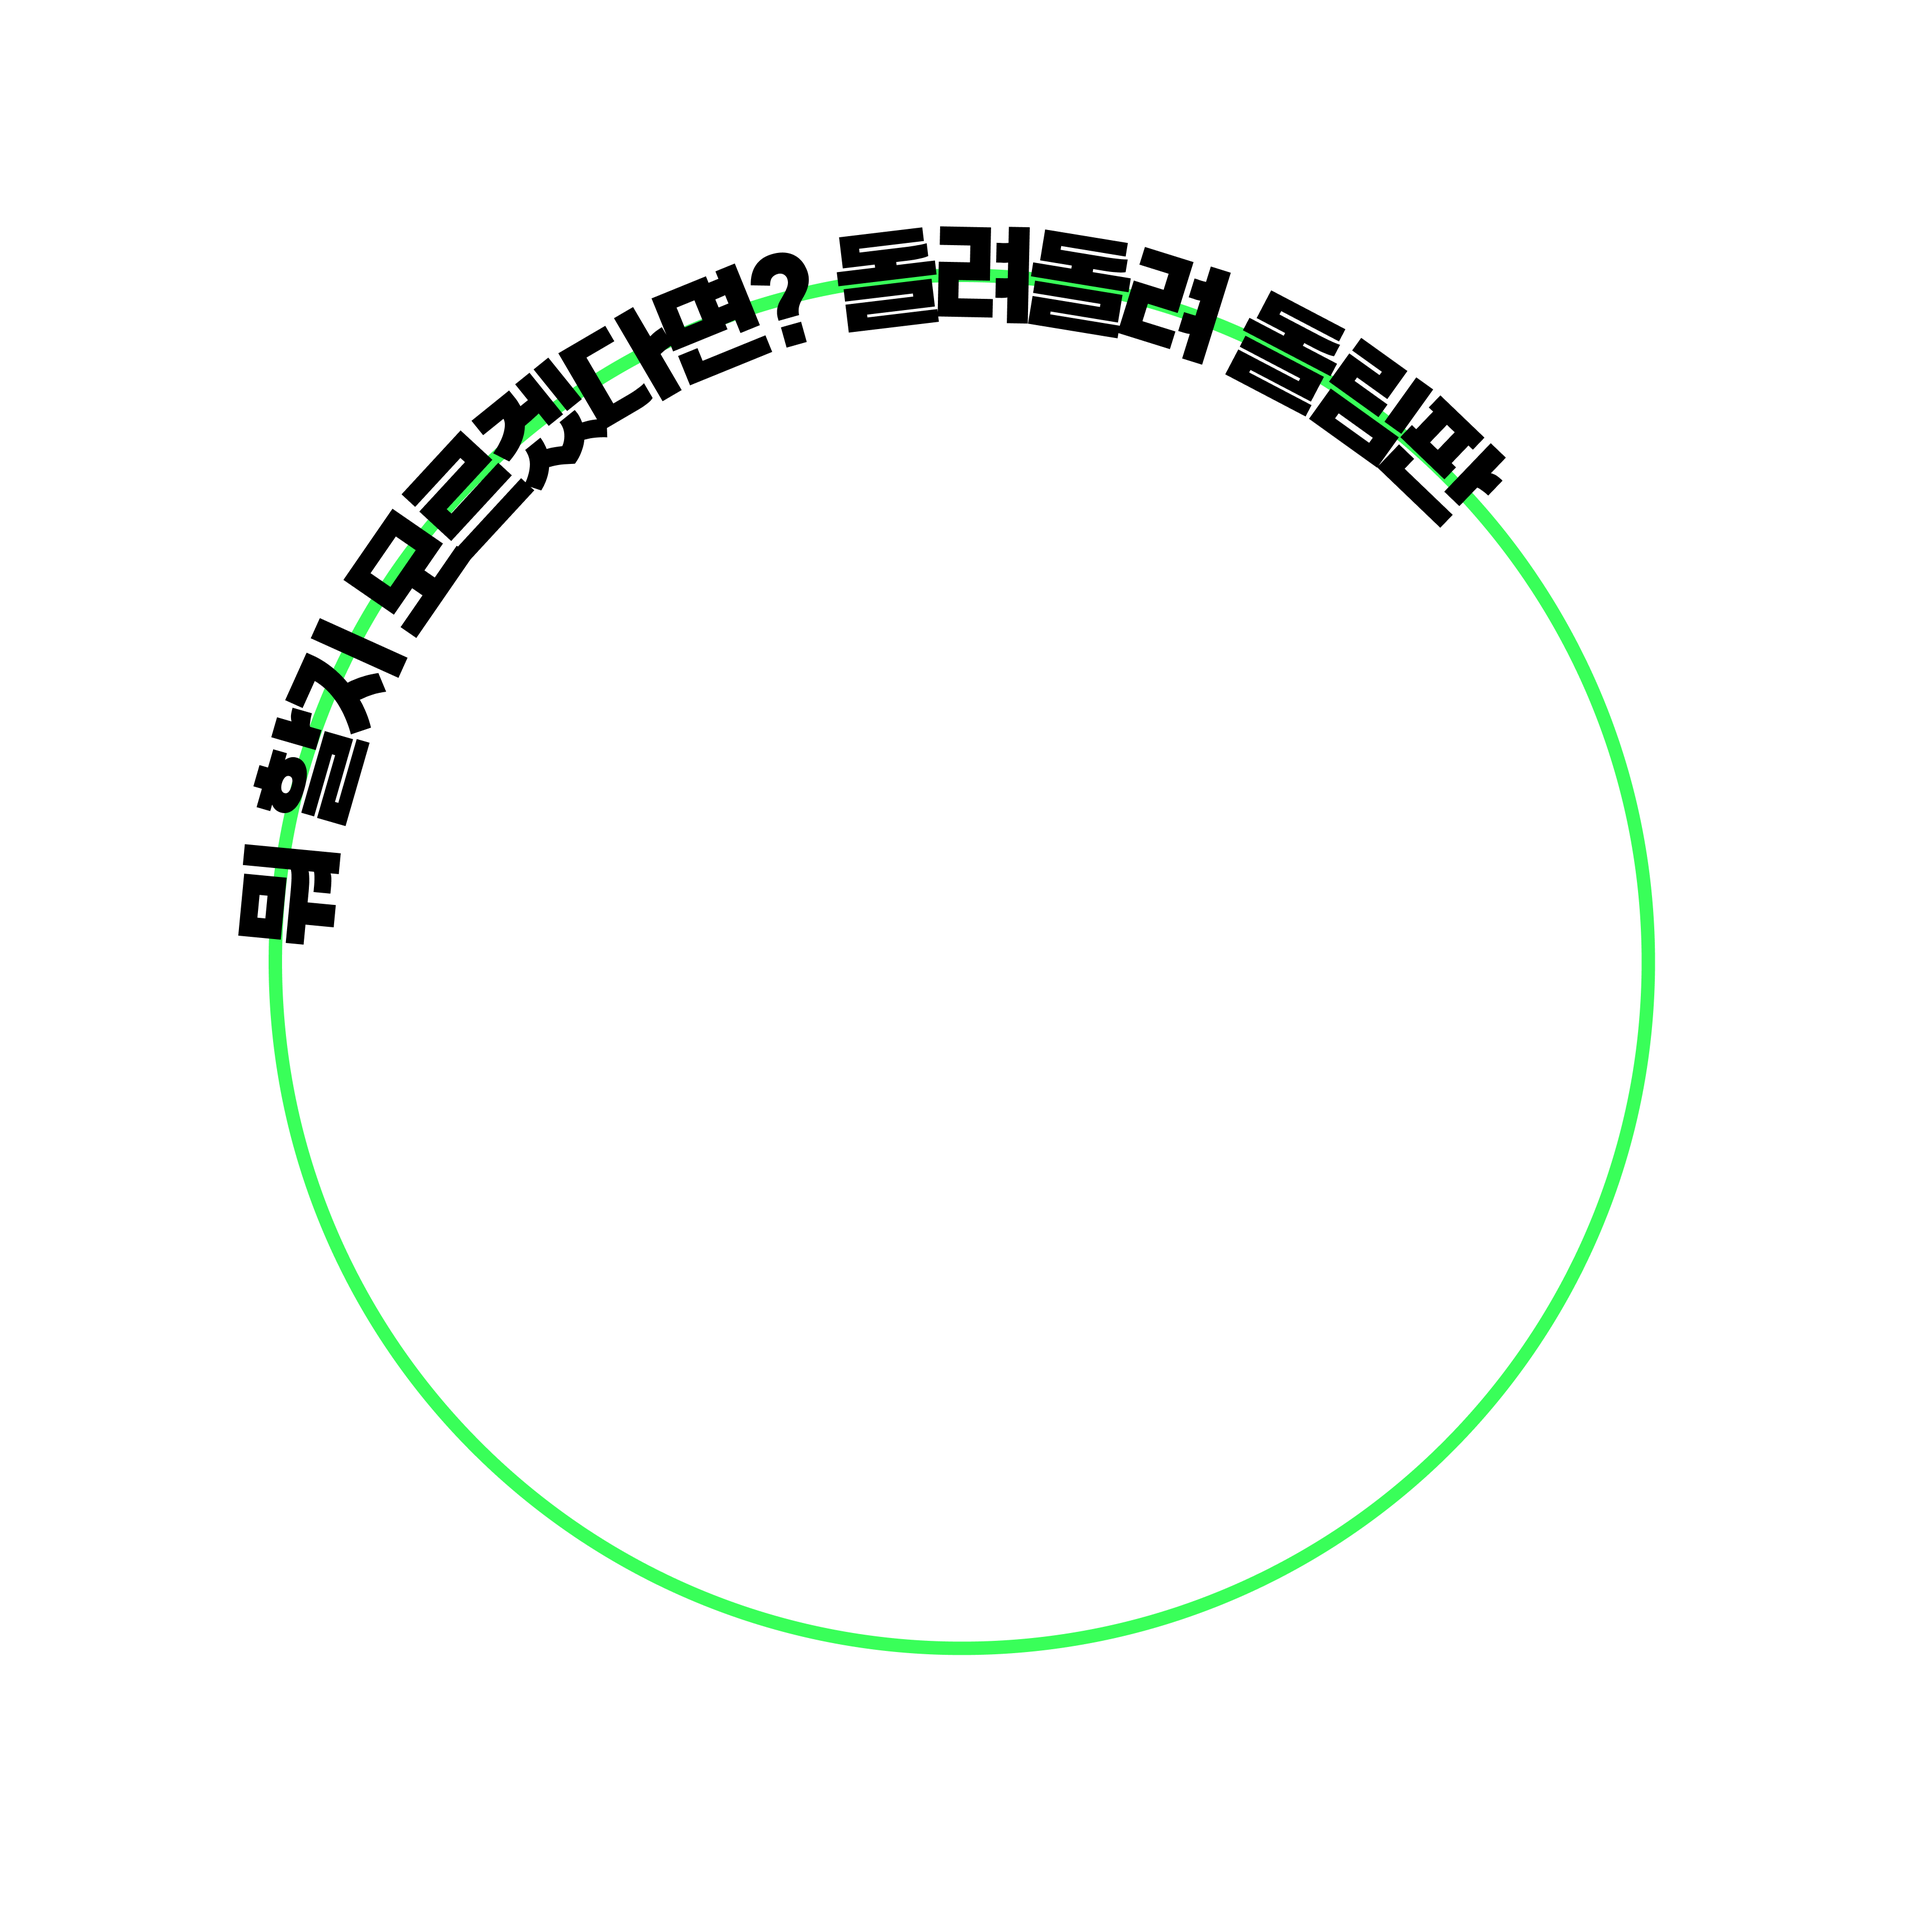
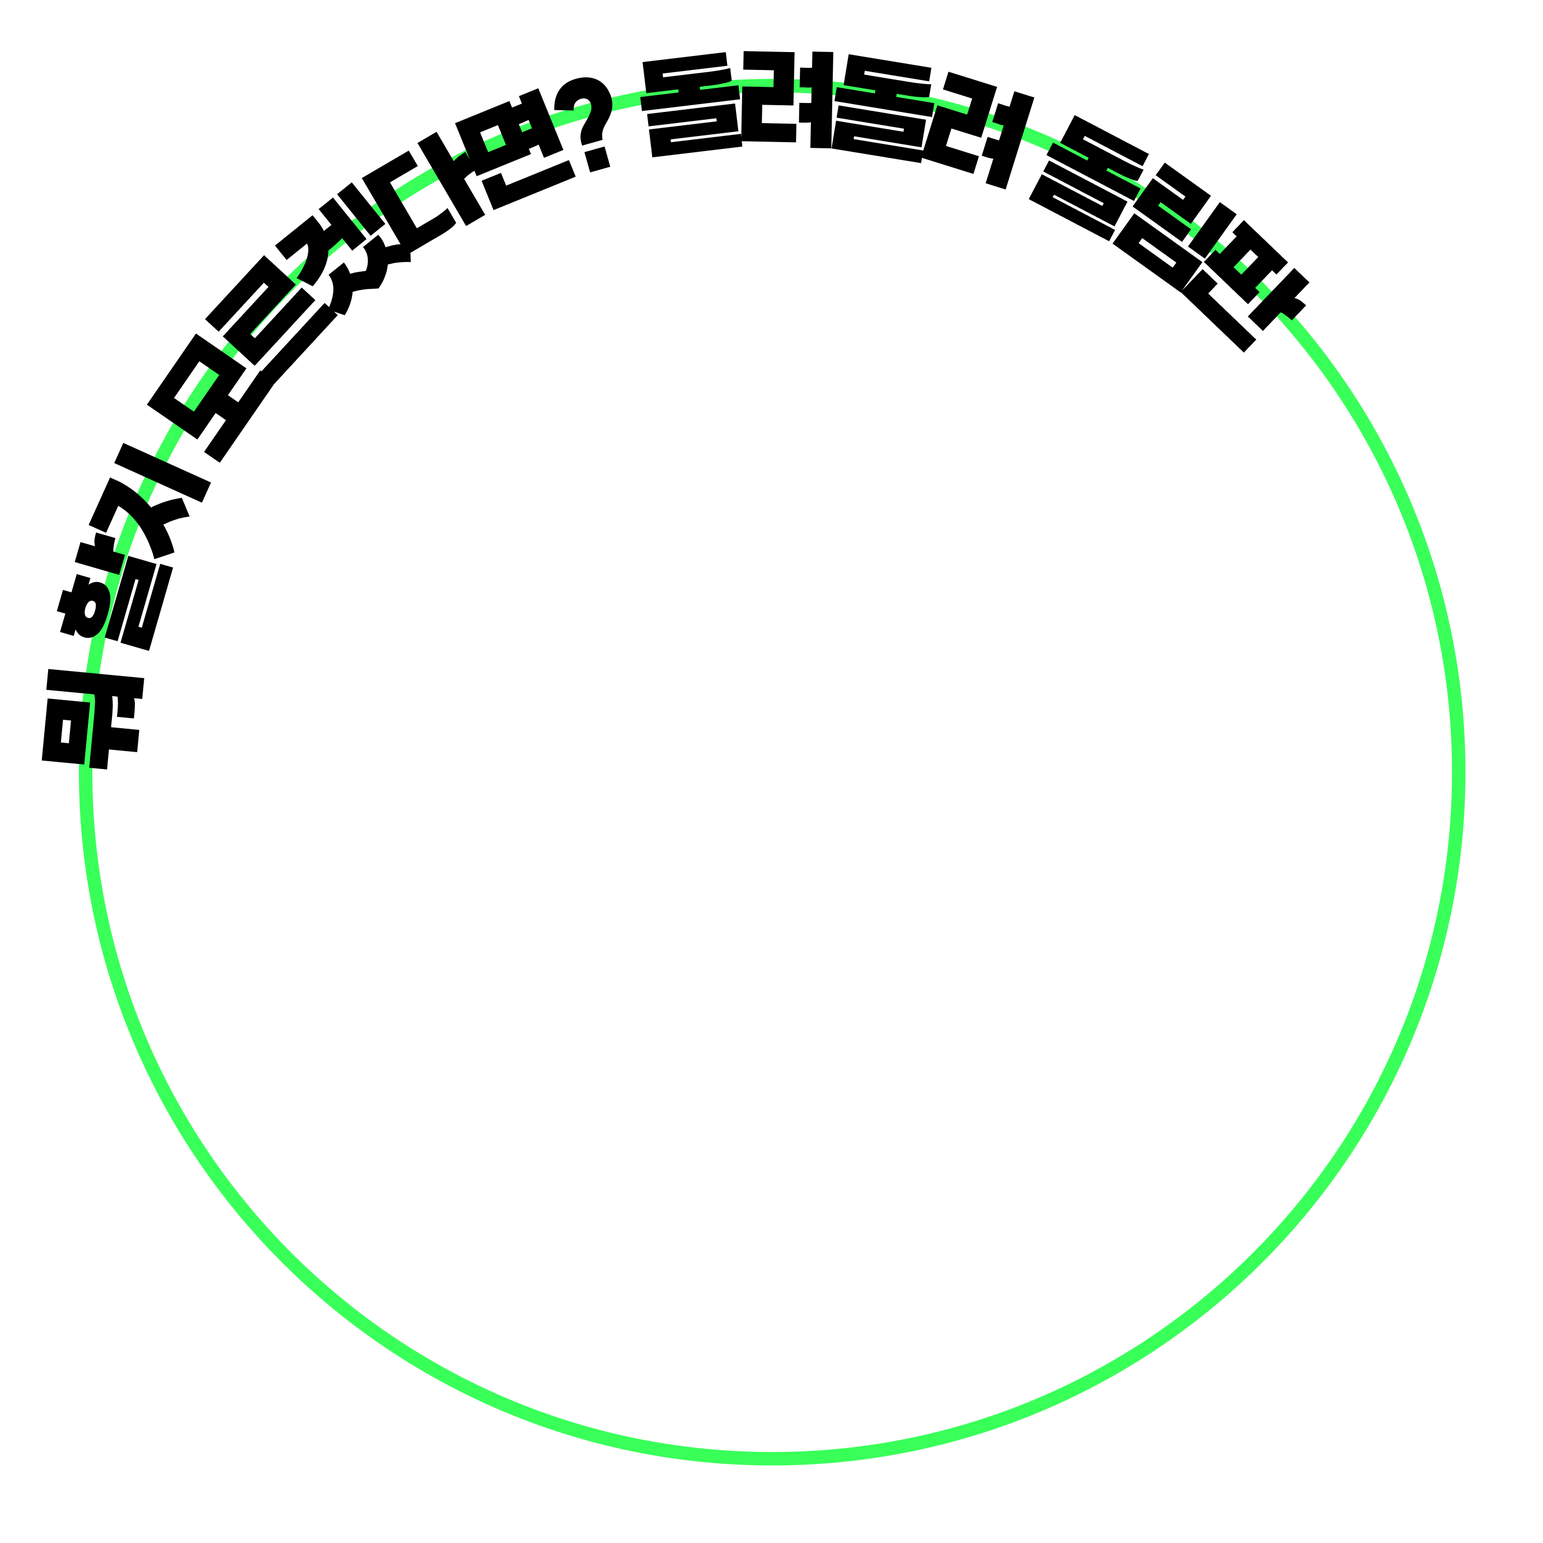
griview edit with G

diff --git a/src/App.js b/src/App.js
@@ -145,15 +145,11 @@ const RandomChoiceGame = () => {
           <h2 className="text-lg md:text-xl text-black/90">
             결정을 못하는 당신을 위한! 랜덤~게임~!
           </h2>
-          <div className="mt-2 text-black/80 flex items-center justify-center gap-2">
-            <Trophy size={18} color="#FF0000" />
-            <span>**연속 {streak}번째 결정 중!**</span>
-          </div>
         </div>
 
         <div className="grid md:grid-cols-2 gap-6">
           {/* Game Card */}
-          <div className="bg-white shadow-lg rounded-lg">
+          <div className="bg-white rounded-lg">
             <div className="p-4 md:p-6">
               {/* Circular Guide Overlay */}
               <div className="relative w-full aspect-square bg-white rounded-full mb-4 overflow-hidden">
@@ -201,16 +197,16 @@ const RandomChoiceGame = () => {
               <div className="flex justify-center gap-4">
                 <button
                   onClick={isRunning ? handleStop : handleRestart}
-                  className="w-full bg-[#000] hover:bg-[#05CC25] text-white px-6 py-4 text-lg rounded-full"
+                  className="w-full bg-[#000] hover:bg-[#07FF2F] text-white px-6 py-4 text-lg rounded-full"
                 >
-                  {isRunning ? "멈추기 🔥" : "다시하기 🔥"}
+                  {isRunning ? "🔥 멈추기 🔥" : "🔥 다시하기 🔥"}
                 </button>
               </div>
             </div>
           </div>
 
           {/* History Card */}
-          <div className="bg-white shadow-lg rounded-lg">
+          <div className="bg-white rounded-lg">
             <div className="p-4 md:p-6">
               <div className="flex justify-between items-center mb-4">
                 <h3 className="text-lg md:text-xl text-black">
@@ -234,7 +230,7 @@ const RandomChoiceGame = () => {
                     return (
                       <div
                         key={item.id}
-                        className="flex items-center gap-3 p-3 bg-gray-50 rounded-lg shadow-md hover:shadow-lg transition-shadow duration-300"
+                        className="flex items-center gap-3 p-3 rounded-lg shadow-md hover:shadow-lg transition-shadow duration-300"
                       >
                         <img
                           src={item.image}
@@ -249,7 +245,7 @@ const RandomChoiceGame = () => {
                             <span className="text-black text-sm md:text-base">
                               {item.selection}
                             </span>
-                            <div className="text-xs text-[#000] bg-[#eee] hover:bg-[#e0e0e0]/30 px-2 py-1 text-xs rounded-md shadow-sm hover:shadow-md transition-shadow duration-300">
+                            <div className="text-xs text-[#000] bg-[#eee] hover:bg-[#e0e0e0]/30 px-2 py-1 text-xs rounded-md shadow-sm transition-shadow duration-300">
                               {item.numberOfPeople}
                             </div>
                           </div>
@@ -302,8 +298,11 @@ const RandomChoiceGame = () => {
                 <X size={20} className="text-black" />
               </button>
             </div>
+            <div className="flex justify-center">
+              <h2 className="text-xl">🎉 랜덤~! 게임~! 🎉</h2>
+            </div>
             <div className="flex justify-center mb-3">
-              <h2 className="text-xl">🎉 당신의 선택!</h2>
+              <h2 className="text-xl">바로 이거 하러 가자!</h2>
             </div>
             {selectedResult !== null && (
               <>
